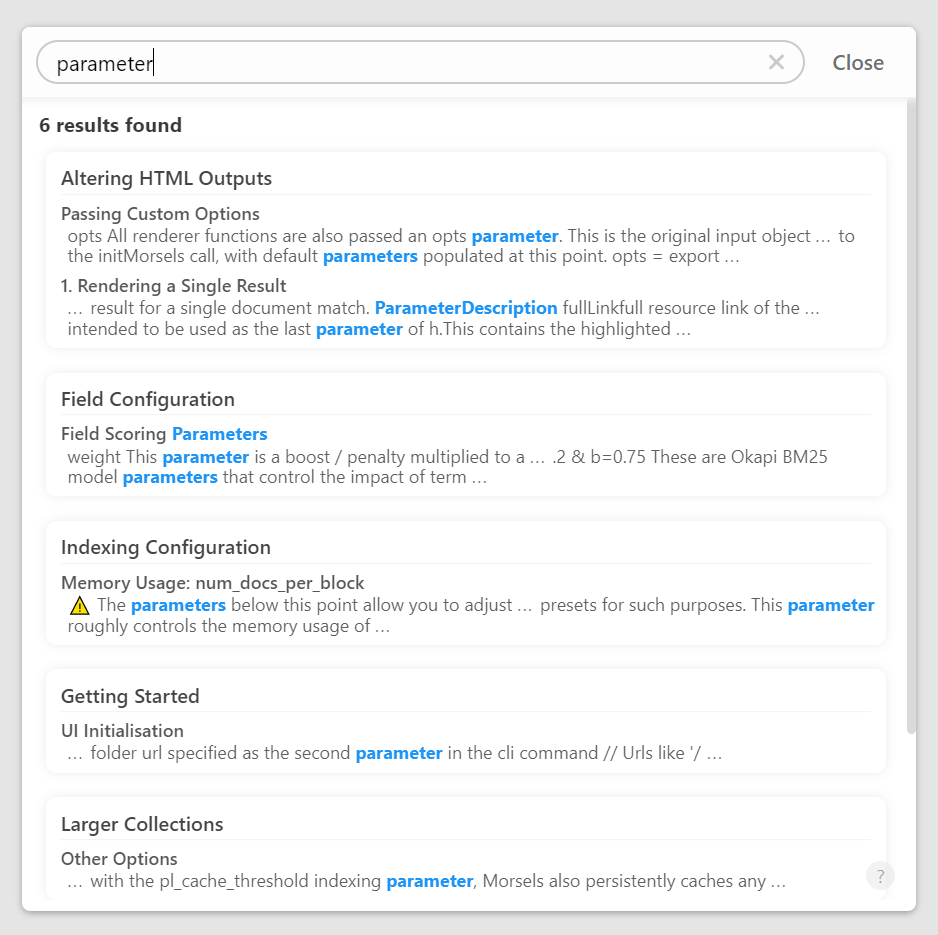
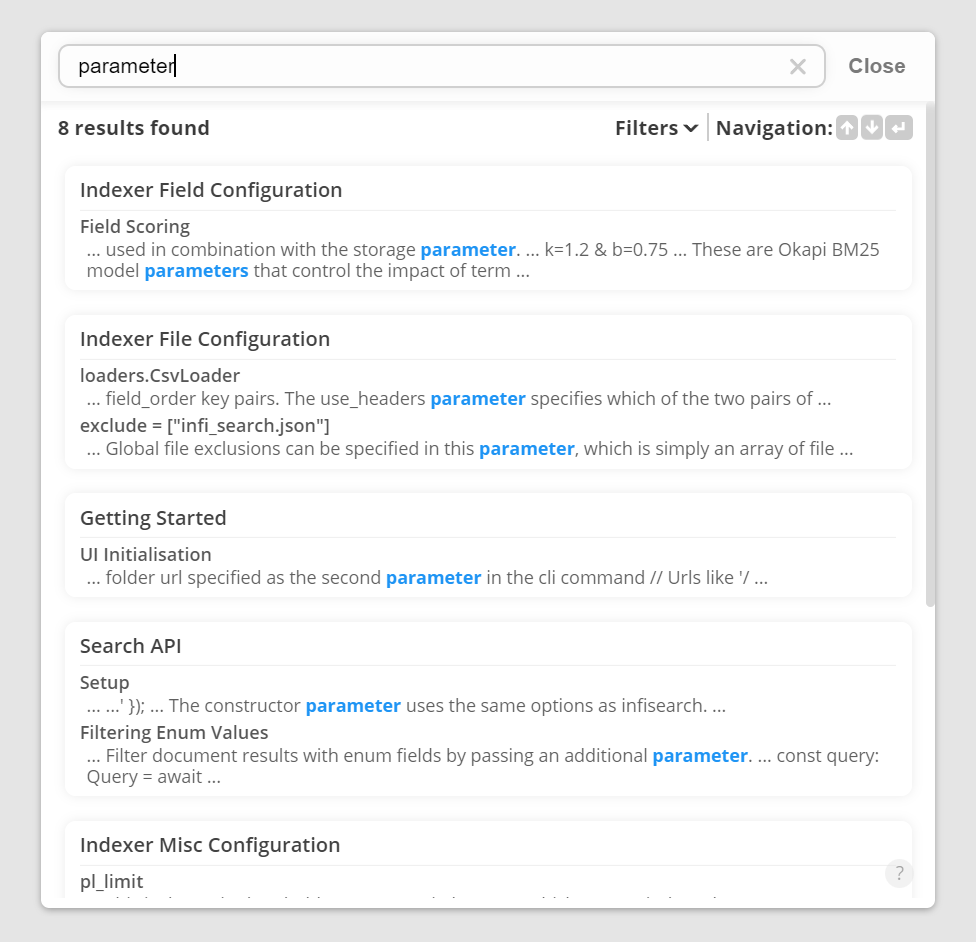
Add instructions for npm CLI wrapper
And some other minor docs updates

Changed region(s): [[0.0, 0.031, 0.9893, 0.9925], [0.8038, 0.7754, 0.8966, 0.8064]]

diff --git a/docs/src/search_configuration_styling.md b/docs/src/search_configuration_styling.md
@@ -37,7 +37,7 @@ Head on over to the demo site [here](https://infi-search.com) to try them out!
 
 <div class="image-container">
 <img src="./images/light-theme.png" alt="Preview of light theme">
-<img src="./images/light-theme-fullscreen.png" alt="Preview of light theme (fullscreen)">
+<img src="./images/light-theme-dropdown.png" alt="Preview of light theme (dropdown)">
 </div>
 
 
@@ -51,8 +51,7 @@ Head on over to the demo site [here](https://infi-search.com) to try them out!
 ```
 
 <div class="image-container">
-<img src="./images/basic-theme.png" alt="Preview of basic theme">
-<img src="./images/basic-theme-fullscreen.png" alt="Preview of basic theme (fullscreen)">
+<img src="./images/basic-theme-dropdown.png" alt="Preview of basic theme (dropdown)">
 </div>
 
 ### Dark
@@ -67,21 +66,18 @@ Head on over to the demo site [here](https://infi-search.com) to try them out!
 #### Preview
 
 <div class="image-container">
-<img src="./images/dark-theme.png" alt="Preview of dark theme">
-<img src="./images/dark-theme-fullscreen.png" alt="Preview of dark theme (fullscreen)">
+<img src="./images/dark-theme-dropdown.png" alt="Preview of dark theme (dropdown)">
 </div>
 
 ## Styling the Fullscreen UI Input Button
 
-InfiSearch adopts a minimally invasive approach to styling your `<input>` element (except for the one that comes with the fullscreen UI), leaving this to your individual site's styling.
+InfiSearch is minimally invasive in styling your `<input>` element (except for the one that comes with the fullscreen UI), leaving this to your site's design.
 
-For accessibility, however, some minimal styling is applied when using the [fullscreen UI](./search_configuration.md#ui-mode) to convey the intention of a button (which opens the fullscreen UI). This is limited to:
+Notably however, for accessibility, some minimal styling is applied when using the [fullscreen UI](./search_configuration.md#ui-mode) to convey the intention of a button (which opens the fullscreen UI). This is limited to:
 - A `background` & `box-shadow` & `color` application on *focus*
 
   These are applied with a `!important` modifier as they are key to conveying keyboard focus, but are also overridable easily with InfiSearch's css variables.
 - `cursor: pointer` application on *hover*
-
-Accessibility labels and roles are also automatically set.
 
 **Applying Input Button Styles under `mode='auto'`**
 

diff --git a/README.md b/README.md
@@ -28,9 +28,10 @@ Powering static site search with InfiSearch is extremely easy, and requires just
 
 ### 1. Installing the indexer
 
-If you have the rust / cargo toolchains setup, simply run `cargo install infisearch --vers 0.8.6`.
-
-Alternatively, download the cli binaries [here](https://github.com/ang-zeyu/infisearch/releases).
+There are a couple of options for installing the indexer:
+- Install the global npm package with `npm install -g @infisearch/cli`.
+- If you have the rust / cargo toolchains setup, run `cargo install infisearch --vers 0.8.6`.
+- You can also grab the cli binaries [here](https://github.com/ang-zeyu/infisearch/releases).
 
 ### 2. Running the indexer
 

diff --git a/docs/src/getting_started.md b/docs/src/getting_started.md
@@ -14,9 +14,10 @@ This page assumes the use case of a **static site**, that is:
 
 ## Installing the indexer
 
-If you have the rust / cargo toolchains setup, simply run `cargo install infisearch --vers 0.8.6`.
-
-Alternatively, download the cli binaries [here](https://github.com/ang-zeyu/infisearch/releases).
+There are a couple of options for installing the indexer:
+- Install the global npm package with `npm install -g @infisearch/cli`.
+- If you have the rust / cargo toolchains setup, run `cargo install infisearch --vers 0.8.6`.
+- You can also grab the cli binaries [here](https://github.com/ang-zeyu/infisearch/releases).
 
 ## Running the indexer
 

diff --git a/docs/src/larger_collections.md b/docs/src/larger_collections.md
@@ -1,6 +1,6 @@
 # Larger Collections
 
-*Five* configuration presets are available for scaling this tool to larger collections. They are designed primarily for InfiSearch's main intended use case of supporting static site search.
+*Three* configuration presets are available for scaling this tool to larger collections. They are designed primarily for InfiSearch's main intended use case of supporting static site search.
 
 ## Introduction
 

diff --git a/docs/src/SUMMARY.md b/docs/src/SUMMARY.md
@@ -25,4 +25,4 @@
 # Advanced
 
 - [Altering HTML outputs](./search_configuration_renderers.md)
-- [Incremental Indexing](./incremental_files.md)
+- [Incremental Indexing](./incremental_indexing.md)
